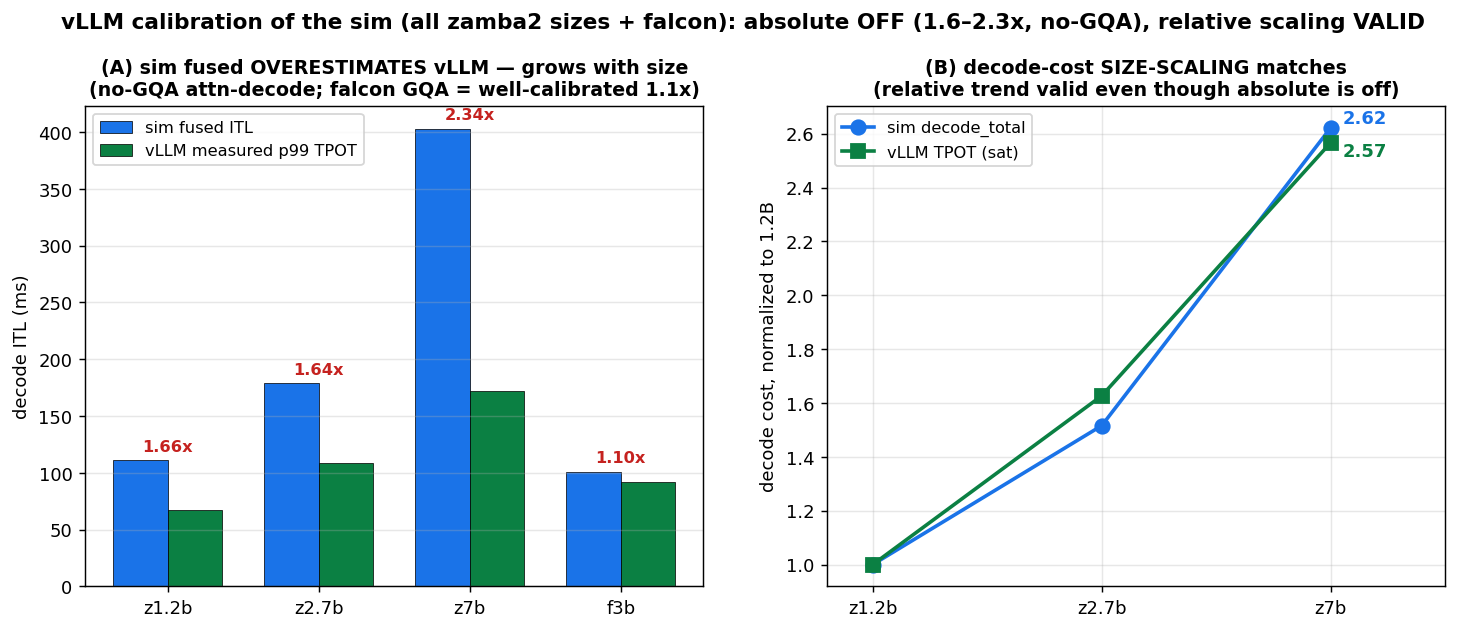
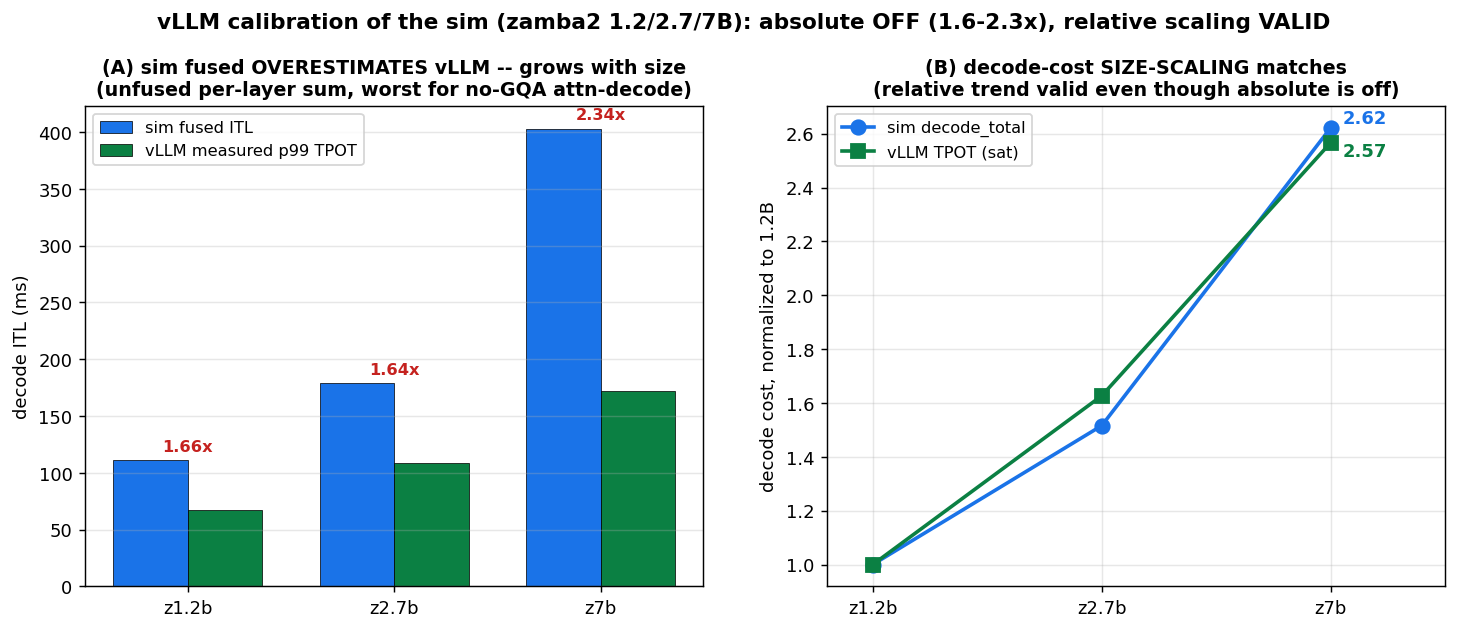
vllm_calibration: drop f3b (falcon) -- keep zamba2 1.2/2.7/7B only
Removed the falcon point from panel A and updated titles (no falcon reference). Figure is now
zamba2-only: calibration ratios 1.66/1.64/2.34x and the size-scaling match. Updated figure_index.

Changed region(s): [[0.0617, 0.0905, 0.4938, 0.9952], [0.0309, 0.0, 0.9877, 0.0603]]

diff --git a/workspace/characterization/experiments/e6_queue_sim/make_calibration_fig.py b/workspace/characterization/experiments/e6_queue_sim/make_calibration_fig.py
@@ -18,7 +18,6 @@ D = {
     "z1.2b": (111, 67, 1121, 1413, 18.8),
     "z2.7b": (179, 109, 692, 870, 28.5),
     "z7b":   (403, 172, 312, 346, 49.3),
-    "f3b":   (101, 92, 1236, 1074, 18.3),
 }
 models = list(D)
 
@@ -35,8 +34,8 @@ for i, m in enumerate(models):
              ha="center", fontsize=9, fontweight="bold", color="#c5221f")
 axA.set_xticks(x); axA.set_xticklabels(models)
 axA.set_ylabel("decode ITL (ms)")
-axA.set_title("(A) sim fused OVERESTIMATES vLLM — grows with size\n"
-              "(no-GQA attn-decode; falcon GQA = well-calibrated 1.1x)", fontsize=10.5, fontweight="bold")
+axA.set_title("(A) sim fused OVERESTIMATES vLLM -- grows with size\n"
+              "(unfused per-layer sum, worst for no-GQA attn-decode)", fontsize=10.5, fontweight="bold")
 axA.legend(fontsize=9)
 axA.grid(axis="y", alpha=0.3)
 
@@ -57,7 +56,7 @@ axB.set_title("(B) decode-cost SIZE-SCALING matches\n(relative trend valid even 
 axB.legend(fontsize=9, loc="upper left")
 axB.grid(alpha=0.3)
 
-fig.suptitle("vLLM calibration of the sim (all zamba2 sizes + falcon): absolute OFF (1.6–2.3x, no-GQA), "
+fig.suptitle("vLLM calibration of the sim (zamba2 1.2/2.7/7B): absolute OFF (1.6-2.3x), "
              "relative scaling VALID", fontsize=12, fontweight="bold", y=1.03)
 out = Path(_CHAR).parents[1] / "reports" / "figures"
 out.mkdir(parents=True, exist_ok=True)

diff --git a/reports/figure_index.md b/reports/figure_index.md
@@ -26,7 +26,7 @@
 | **layer_aware_applicability.png** | 2-panel | zamba2(temporal, attn/ssm 분리→적용 ✓) vs falcon(spatial, 병렬→N/A) 레이어 배치 도식 | 적용 범위 = temporal 하이브리드 |
 | **prefill_sm_sensitivity.png** | 2-panel | (A) ssm-prefill SM-민감도 곡선 (1.2/2.7/7B 거의 겹침) · (B) attn-prefill 곡선 — 108→14 SM 비율 | prefill SM-민감도는 **크기-불변**(7B도 민감) |
 | **framework_comparison.png** | 1-panel | 4-way **decode ITL** 막대(fused/co/agnostic/layer_aware) × 3모델 + vLLM 실측 109ms 앵커 | fused가 ITL 최대, 예약이 4–6× bound |
-| **vllm_calibration.png** | 2-panel | (A) **sim fused ITL vs vLLM 실측** (과대비 1.66/1.64/2.34×, falcon 1.09×) · (B) **decode 크기-스케일링 일치**(sim 비 ≈ 실측 비) | sim 절대값 off(no-GQA·크기↑서↑), 상대 추세 valid |
+| **vllm_calibration.png** | 2-panel | (A) **sim fused ITL vs vLLM 실측** (과대비 1.66/1.64/2.34×, zamba2) · (B) **decode 크기-스케일링 일치**(sim 비 ≈ 실측 비) | sim 절대값 off(no-GQA·크기↑서↑), 상대 추세 valid |
 
 ### A 그림 — 파일 위치 & 생성 스크립트
 
